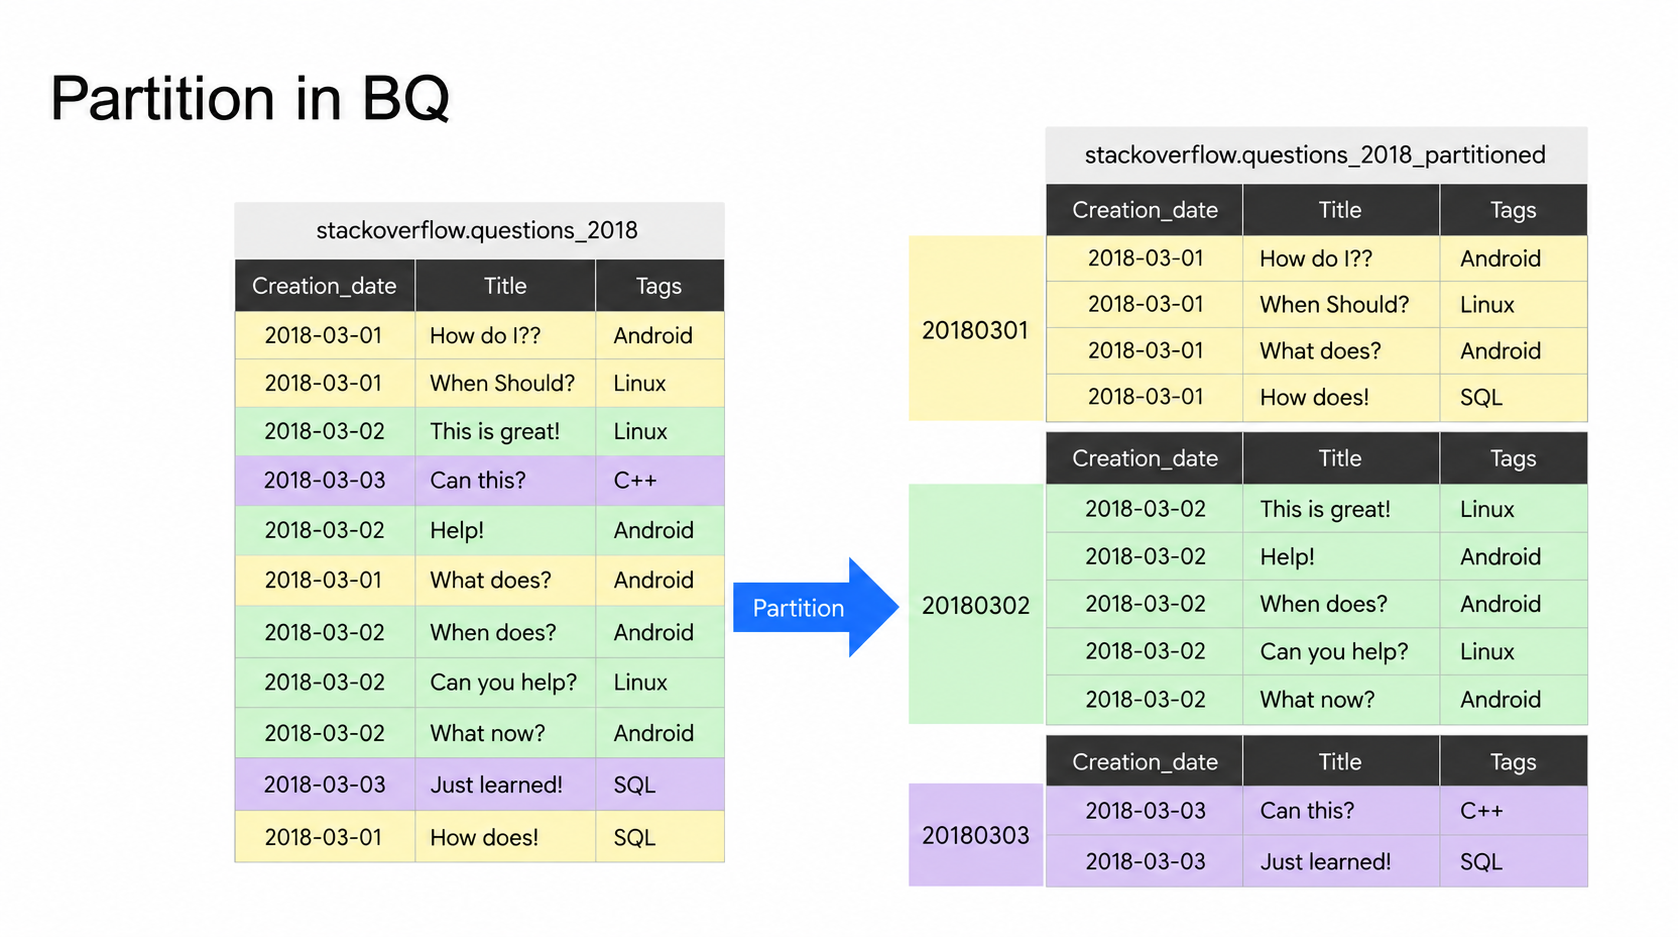
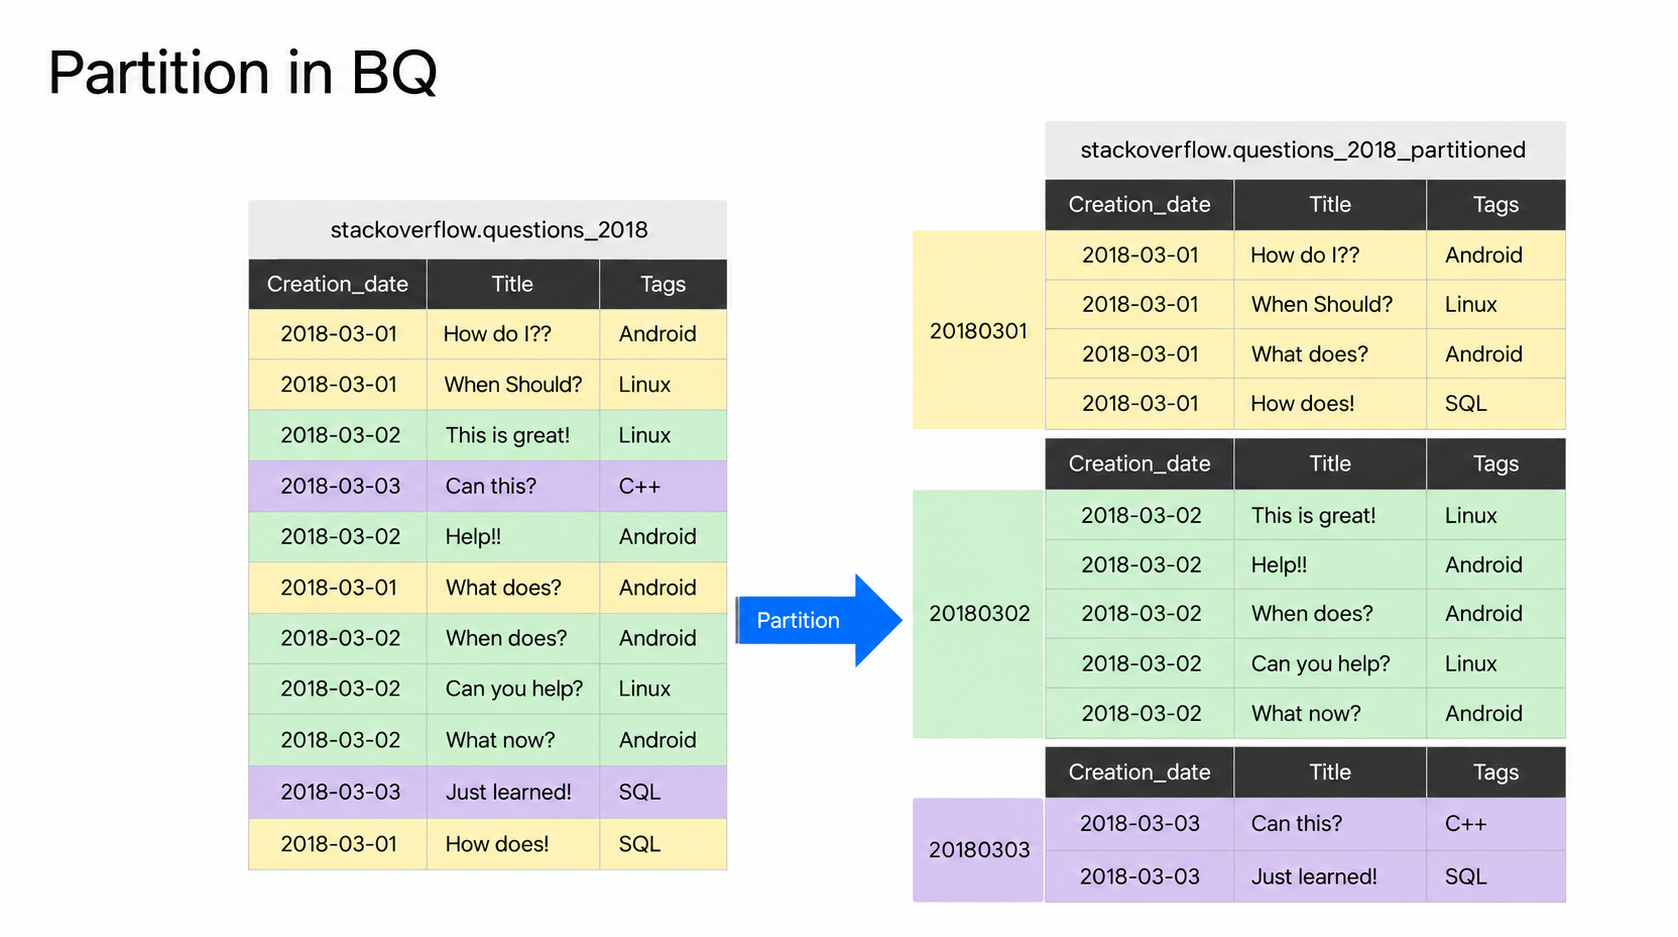
Fix Help punctuation in partitioning diagram

Changed region(s): [[0.124, 0.1547, 0.9607, 0.9904], [0.031, 0.0309, 0.2789, 0.1238]]

diff --git a/.tmp/de-2027-warehouse-image-rollout.md b/.tmp/de-2027-warehouse-image-rollout.md
@@ -585,21 +585,25 @@ Postman chrome is removed only where it is outside the instructional UI.
[1 lines of base64/hex data omitted]
 - Method: built-in imagegen, `scientific-educational`, using the original JPG
   and native crop as the only image inputs. Artifact:
-  `/home/alexey/.codex/generated_images/01a0855a-8dcc-7d72-a9cb-17410103997b/exec-bf8f8a56-79eb-4b1c-9c86-d753f05f7f9e.png`;
[1 lines of base64/hex data omitted]
+  `/home/alexey/.codex/generated_images/01a0855a-8dcc-7d72-a9cb-17410103997b/exec-13700db3-1ced-4bf5-b0cd-ad45f986a8f1.png`;
[1 lines of base64/hex data omitted]
 - Published PNG: `01-data-warehouse-and-bigquery-05-partitioning-diagram-crisp.png`;
   byte-identical to the artifact; dimensions `1678×937`; final SHA-256
[1 lines of base64/hex data omitted]
-- C2PA: `urn:c2pa:cd945a7a-0515-4f2e-a292-519597e008d0`.
[1 lines of base64/hex data omitted]
+- C2PA: `urn:c2pa:0d910e94-c0c4-4c09-826d-cd52476a4c20`.
 - Semantic checks: `Partition in BQ`, both table titles, `Creation_date`, all
   11 source rows, partition keys `20180301`, `20180302`, `20180303`, all
   grouped partition rows, the blue right-facing `Partition` arrow, exact
-  dates, values, labels, and punctuation are retained. No rows were added,
-  removed, or reordered.
+  dates, values, labels, and punctuation are retained. In particular,
+  `Help!!` (two exclamation marks) appears in both the source-table row and
+  the green `20180302` partition row; the prior `Help!` defect is corrected.
+  No rows were added, removed, or reordered.
 - Overlay/size validation: no browser, video, camera, cursor, selection,
   watermark, or other capture overlay; native output and proportional
-  `608×340` render were visually inspected and remained legible. Markdown
-  reference resolves and `git diff --check` passes.
+  `608×340` render (SHA-256
[1 lines of base64/hex data omitted]
+  were visually inspected and remained legible. Markdown reference resolves
+  and `git diff --check` passes.
 
 ### 01-data-warehouse-and-bigquery-04-external-table-details.jpg
 
